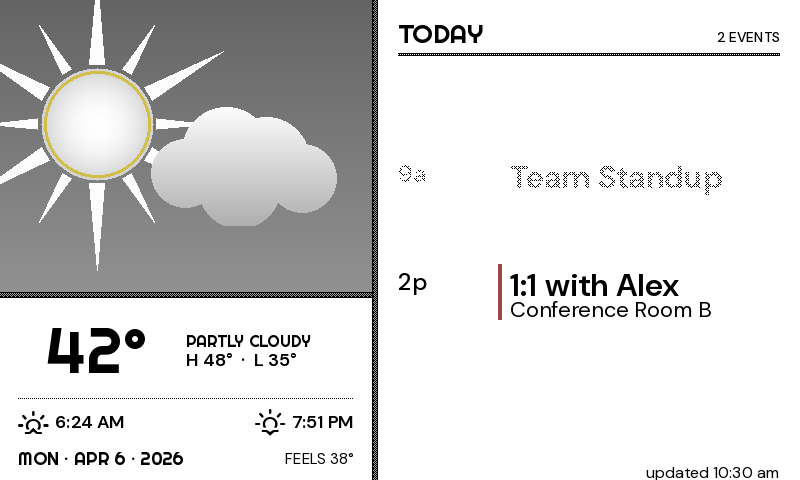
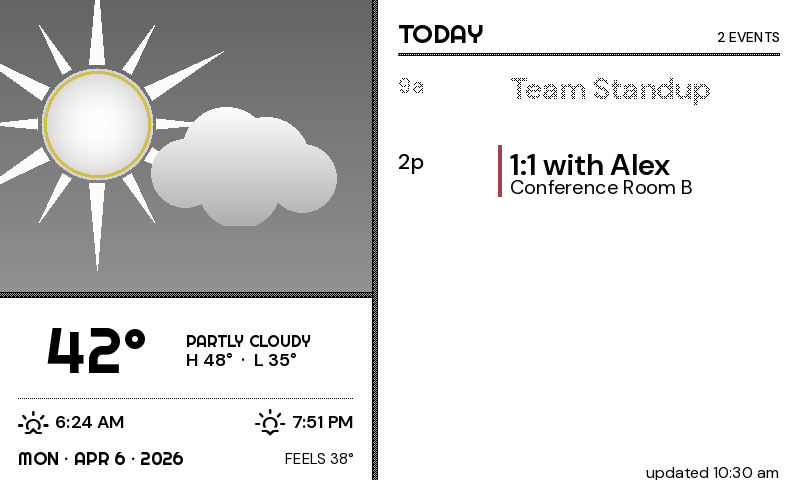
Retune the halftone_agenda agenda pane for the panel
Three legibility fixes, all visible on hardware and none on a monitor.

Rows are top-justified under the rule at a pitch sized to their type.
The roomiest tier set a 108-px pitch so a light day would fill the pane,
and the short list was then centred in it — two events came out floating
mid-pane with gaps above and below that read as a layout fault rather
than as a light day.

The elapsed-row Bayer cut now rises as the type shrinks: 96 (~38% of the
coverage) for the display tiers, 128 and 160 for the denser ones. One
fixed cut is fine on a 30-px title and leaves the 17-px type of a packed
day as a row of dots. Note the cut runs the opposite way to how it
reads — higher keeps more ink — and skyart's docstring had it backwards,
claiming 96 retains 60% when it retains 38%; corrected with the useful
stops spelled out.

"+N more" is drawn in plain ink instead of being screened like a past
row. A spent row has its neighbours to read against; that line sits
alone under the last row, and it is the one mark saying the day
continues past what is shown.

Claude-Session: https://claude.ai/code/session_01B9xgTmJ1G2ewnUiMBvorMa

diff --git a/tests/test_halftone_agenda_theme.py b/tests/test_halftone_agenda_theme.py
@@ -13,6 +13,8 @@ from src.dummy_data import generate_dummy_data
 from src.render.canvas import render_dashboard
 from src.render.components.halftone_agenda_panel import (
     _DENSITY_TIERS,
+    _PAST_SCREEN_DENSE,
+    _PAST_SCREEN_DISPLAY,
     AGENDA_PAD_X,
     AGENDA_X,
     ART_W,
@@ -28,6 +30,7 @@ from src.render.components.halftone_agenda_panel import (
     _sun_times,
     agenda_metrics,
     draw_halftone_agenda,
+    past_screen,
 )
 from src.render.quantize import INKY_SPECTRA6_PALETTE, flatten_pixels
 from src.render.skyart import (
@@ -442,6 +445,108 @@ class TestPaneSeparation:
             for y in range(480 - FOOTER_H, 480)
         ]
         assert any(px[x, y] == 0 for x, y in footer_band)
+
+
+class TestAgendaRowTreatment:
+    """Row spacing, elapsed-row screening and the overflow line.
+
+    A screened region can never contain a solid 2×2 block of ink — the Bayer
+    lattice has no such run at any cut this panel uses (the test below pins
+    that) — so the presence of one is a reliable "drawn in plain ink" signal.
+    """
+
+    def _solid_2x2_blocks(self, img, box) -> int:
+        px = img.load()
+        x0, y0, x1, y1 = box
+        return sum(
+            1
+            for y in range(y0, y1 - 1)
+            for x in range(x0, x1 - 1)
+            if px[x, y] == 0 and px[x + 1, y] == 0 and px[x, y + 1] == 0 and px[x + 1, y + 1] == 0
+        )
+
+    def test_lattice_never_yields_a_solid_2x2_block(self):
+        from src.render.quantize import _BAYER_4X4
+
+        for cut in (_PAST_SCREEN_DISPLAY, _PAST_SCREEN_DENSE):
+            for y in range(4):
+                for x in range(4):
+                    assert not all(
+                        _BAYER_4X4[(y + dy) % 4][(x + dx) % 4] < cut
+                        for dy in (0, 1)
+                        for dx in (0, 1)
+                    ), f"cut {cut} has a solid 2x2 at {(y, x)}"
+
+    def test_rows_are_top_justified(self):
+        # A light day and a busy one must start their first row at the same y:
+        # the list hangs from the rule, and the day's free space falls below
+        # it. Measured on the draw call rather than on ink, because different
+        # tiers set different type and so put their first pixel at different
+        # offsets inside the row.
+        import src.render.components.halftone_agenda_panel as mod
+
+        def first_row_y(events):
+            seen: list[int] = []
+            original = mod._draw_event_row
+
+            def spy(*args, **kwargs):
+                seen.append(kwargs["y"])
+                return original(*args, **kwargs)
+
+            mod._draw_event_row = spy
+            try:
+                _render(data=_data_for(events=events))
+            finally:
+                mod._draw_event_row = original
+            assert seen, "no rows drawn"
+            return seen[0]
+
+        light = first_row_y([_event(9), _event(15)])
+        busy = first_row_y([_event(7 + i, name=f"Event {i}") for i in range(8)])
+        assert light == busy, f"light starts at {light}, busy at {busy}"
+
+    def test_row_pitch_is_sized_to_its_type(self):
+        # Rows are spaced to their content, not stretched to fill the pane, so
+        # a two-event day is a short list rather than a sparse one.
+        leading = 26  # generous, but well short of stretch-to-fill
+        for _max_rows, row_h, _time_w, _time_pt, title_pt, show_loc in _DENSITY_TIERS:
+            content = title_pt + (title_pt - 4 if show_loc else 0)
+            assert row_h <= content + leading, (row_h, title_pt, show_loc)
+
+    def test_past_screen_keeps_more_ink_as_type_shrinks(self):
+        cuts = [past_screen(tier[4]) for tier in _DENSITY_TIERS]
+        assert cuts == sorted(cuts), f"cut must rise as type shrinks: {cuts}"
+        assert cuts[0] == _PAST_SCREEN_DISPLAY
+        assert cuts[-1] == _PAST_SCREEN_DENSE
+
+    def test_elapsed_rows_are_screened_and_the_overflow_line_is_not(self):
+        # "+N more" used to go through the same screen as a spent row, which
+        # made the one line saying the day continues the faintest mark on the
+        # plate. Every screening call must now belong to an elapsed row.
+        import src.render.components.halftone_agenda_panel as mod
+
+        events = [_event(6 + i, name=f"Event {i}") for i in range(14)]
+        calls: list[tuple[int, int, int, int]] = []
+        original = mod.screened_paste
+
+        def spy(image, box, render, **kwargs):
+            calls.append(box)
+            return original(image, box, render, **kwargs)
+
+        mod.screened_paste = spy
+        try:
+            _render(data=_data_for(events=events))
+        finally:
+            mod.screened_paste = original
+
+        elapsed_shown = sum(
+            1 for e in events[: len(calls)] if e.end.replace(tzinfo=None) <= FIXED_NOW
+        )
+        assert calls, "elapsed rows should still be screened"
+        assert len(calls) == elapsed_shown, (
+            f"{len(calls)} screened regions for {elapsed_shown} elapsed rows — "
+            "the overflow line should be drawn in plain ink"
+        )
 
 
 class TestTypesetHardening:

diff --git a/src/render/components/halftone_agenda_panel.py b/src/render/components/halftone_agenda_panel.py
@@ -110,18 +110,34 @@ TEMP_PT = 64
 TEMP_COL_W = 158
 TEMP_COL_GAP = 10
 
-# Bayer cut for elapsed content — matches day_arc, retaining roughly 60% of
-# the ink so a past row reads as spent without becoming unreadable.
-_PAST_SCREEN = 96
+# Bayer cut for elapsed rows. Higher keeps more ink (see
+# ``skyart.screened_paste``). One fixed cut across every tier doesn't work
+# here: perforating a 32 px title at 38% still reads across the room, while the
+# same cut on the 17 px type the packed tiers set leaves a row of dots. The cut
+# rises as the type shrinks so a past row reads as spent at every density
+# rather than as damage.
+_PAST_SCREEN_DISPLAY = 96  # ≈38% of the coverage, for the roomy tiers
+_PAST_SCREEN_BODY = 128  # 50%
+_PAST_SCREEN_DENSE = 160  # ≈62%, for the smallest type on the plate
+
+
+def past_screen(title_pt: int) -> int:
+    """Bayer cut for an elapsed row set at *title_pt*."""
+    if title_pt >= 26:
+        return _PAST_SCREEN_DISPLAY
+    if title_pt >= 20:
+        return _PAST_SCREEN_BODY
+    return _PAST_SCREEN_DENSE
+
 
 # Density tiers for the agenda column: (max_rows, row_h, time_w, time_pt,
 # title_pt, show_location). Tuned for this pane — 382 px of content width and
 # ~400 px of height, which is half as wide and half again as tall as day_arc's
 # agenda, so the tiers run to more rows before the type has to shrink.
 _DENSITY_TIERS: tuple[tuple[int, int, int, int, int, bool], ...] = (
-    (2, 108, 100, 24, 32, True),
-    (4, 76, 92, 20, 26, True),
-    (6, 54, 84, 18, 22, True),
+    (2, 76, 100, 22, 30, True),
+    (4, 64, 92, 20, 26, True),
+    (6, 52, 84, 18, 22, True),
     (8, 42, 76, 16, 19, False),
     (11, 33, 68, 14, 17, False),
 )
@@ -518,7 +534,7 @@ def _draw_event_row(
             d.text((0, 4), time_str, font=time_font, fill=0)
             draw_text_truncated(d, (time_w + 12, 2), event.summary, title_font, title_w, fill=0)
 
-        screened_paste(image, (x0, y, w, row_h - 6), _render, threshold=_PAST_SCREEN)
+        screened_paste(image, (x0, y, w, row_h - 6), _render, threshold=past_screen(title_pt))
         return
 
     # Upcoming: crisp, with a tick of rule between the time and the title —
@@ -619,11 +635,12 @@ def _draw_agenda_pane(
         visible = day_events
     overflow = len(day_events) - len(visible)
 
-    # A short list is centred in the pane rather than stacked against the rule
-    # with a void beneath it — the tiers are generous enough that two events on
-    # a 400-px pane would otherwise leave a third of it empty.
-    used_h = len(visible) * row_h + (row_h if overflow else 0)
-    y = rows_y + max(0, (rows_h - used_h) // 2)
+    # Rows start under the rule and run down, at the tier's own pitch. Row
+    # heights are sized to their type rather than stretched to fill the pane,
+    # so a light day reads as a short list with the day's remaining space below
+    # it — centring it instead left two events floating in the middle of the
+    # pane with gaps above and below that looked like a layout fault.
+    y = rows_y
     # The soonest timed event still ahead carries the accent tick. All-day rows
     # are skipped: they sort to the top of the day and have no "next" about
     # them, so accenting one would point at the wrong row all morning.
@@ -648,17 +665,15 @@ def _draw_agenda_pane(
         y += row_h
 
     if overflow:
-        more_font = style.font_medium(time_pt)
-        text = f"+{overflow} more"
-
-        def _render(d: ImageDraw.ImageDraw, t: str = text) -> None:
-            d.text((0, 2), t, font=more_font, fill=0)
-
-        # Screened like a past row: secondary, but at the same cut — a lighter
-        # one is too faint to read on eInk.
-        screened_paste(
-            image,
-            (x0 + time_w + 12, y + 2, 200, text_height(more_font) + 10),
-            _render,
-            threshold=_PAST_SCREEN,
+        # Plain ink at row weight. Screening it the way an elapsed row is
+        # screened made it the faintest thing on the plate: a past row at least
+        # has its neighbours to read against, while this line sits alone under
+        # the last row with nothing around it. It is the one line that says the
+        # day continues past what is shown, so it has to survive the panel.
+        more_font = style.font_semibold(title_pt)
+        draw.text(
+            (x0 + time_w + 12, y + 2),
+            f"+{overflow} more",
+            font=more_font,
+            fill=_ink(image.mode),
         )

diff --git a/src/render/skyart.py b/src/render/skyart.py
@@ -759,8 +759,12 @@ def screened_paste(
     one backend and not the other. The output here is pure ink-or-nothing, so
     FS passes it through untouched and the Inky palette mapping is unambiguous.
 
-    *threshold* is the Bayer cut in 0–240: higher removes more ink. The default
-    of 96 retains roughly 60% of the original coverage.
+    *threshold* is the Bayer cut in 0–240: a cell survives when its lattice
+    value is below the cut, so a **higher** threshold keeps **more** ink. With
+    the 4×4 matrix the useful stops are 48 (3/16 cells ≈ 19% of the coverage),
+    96 (6/16 ≈ 38%, the default), 128 (8/16 = 50%) and 160 (10/16 ≈ 62%).
+    Small type needs a higher cut than display type to stay readable — the
+    same fraction of a 14 px glyph is far less legible than of a 32 px one.
     """
     x, y, w, h = box
     if w <= 0 or h <= 0:

diff --git a/CLAUDE.md b/CLAUDE.md
@@ -483,8 +483,10 @@ default to `None` and fall back gracefully so adding a new field never breaks ex
 - `halftone_agenda` is the split-plate sibling of `halftone`, rendered by `halftone_agenda_panel.py` via the full-canvas `halftone_agenda` region. The left 372 px carry the shared `skyart.draw_weather_scene` illustration (at `SCENE_SCALE = 0.72`) over a typeset weather band; a 6-px vertical Bayer rule divides the plate; the right 422 px are the agenda. Notable points:
   - **Calendar semantics are imported from `day_arc_panel`, not re-derived** — `event_state` and `agenda_day` (the after-dark, all-events-ended rollover behind the `TOMORROW` chip). A second copy of the rollover rule would be free to drift out of agreement with the first.
   - **Sun times are normalised once in the entry point** (`_sun_times`). OWM returns aware datetimes while `CalendarEvent.start`/`end` are naive local, and `agenda_day` compares the two — passing `weather.sunset` through raw raises `TypeError` on every real fetch.
-  - **The density tiers are this pane's own** (`_DENSITY_TIERS`, five of them): the column is half as wide and half again as tall as `day_arc`'s, so reusing that table set 32-px rows in a 400-px pane. `agenda_metrics` picks by what fits, same as its `day_arc` counterpart, and a short list is centred in the pane rather than stacked against the rule with a void beneath it.
+  - **The density tiers are this pane's own** (`_DENSITY_TIERS`, five of them): the column is half as wide and half again as tall as `day_arc`'s, so reusing that table set 32-px rows in a 400-px pane. `agenda_metrics` picks by what fits, same as its `day_arc` counterpart. Row heights are sized to their type rather than stretched to fill the pane, and the list is top-justified under the rule — a stretch-to-fill pitch with the short list centred left two events floating in the middle of the pane, reading as a layout fault rather than a light day.
   - **Both typeset regions are hardened before the backend quantizes** (`skyart.harden_typeset` on the weather band and the agenda pane). Without it Floyd-Steinberg eats the antialiased glyph edges — the effect is small in pixel count (~500 px on the plate) and very visible on the panel. The illustration is deliberately outside both rects so it still dithers.
+  - **The elapsed-row screen cut rises as the type shrinks** (`past_screen`): 96 (≈38% of the coverage) for the display tiers, 128 and 160 for the denser ones. One fixed cut leaves the 17-px type of a packed day as a row of dots. Note `skyart.screened_paste`'s cut runs the opposite way to how it reads — a **higher** threshold keeps **more** ink.
+  - **`+N more` is plain ink, not screened.** A past row has its neighbours to read against; this line sits alone under the last row, and it is the one mark saying the day continues past what is shown.
   - **Event marks bracket the row's type, not its pitch.** The roomiest tier sets 92-px rows so a two-event day breathes; a tick drawn to the full row height there reads as a column divider.
   - **The next timed event still ahead gets an accent tick** (`_accent_red`, red on Inky, plain ink on Waveshare). All-day rows are excluded — they sort to the top of the day and have no "next" about them. This is also what gives the Inky render a colour mark on the agenda side; the yellow sun ring is confined to the art pane.
   - **It is in `THEMES_NEEDING_TOMORROW`** (`src/app.py`) alongside `day_arc`. The default event window is Monday-anchored and 7 days long, so on a Sunday it stops before tomorrow — any theme that rolls its agenda over after dark needs the extra day fetched or it reports "Nothing scheduled" every Sunday evening. Add new rollover themes to that set.

diff --git a/CHANGELOG.md b/CHANGELOG.md
@@ -8,6 +8,14 @@ The format is based on [Keep a Changelog](https://keepachangelog.com/).
 
 ### Fixed
 
+- **`halftone_agenda` agenda pane reads better on a panel.** Rows are
+  top-justified under the rule at a pitch sized to their type, instead of a
+  stretch-to-fill pitch that left a two-event day floating mid-pane; the
+  elapsed-row Bayer cut now rises as the type shrinks (a single cut left the
+  17 px type of a packed day as a row of dots); and `+N more` is drawn in
+  plain ink rather than screened, since it sits alone under the last row and
+  is the one mark saying the day continues past what is shown.
+
 - **`halftone_agenda` type is no longer chewed by the dither.** PIL antialiases
   TrueType glyphs on an `"L"` canvas, and the theme's Floyd-Steinberg pass then
   diffused that edge error across glyph boundaries — stems came off the panel
